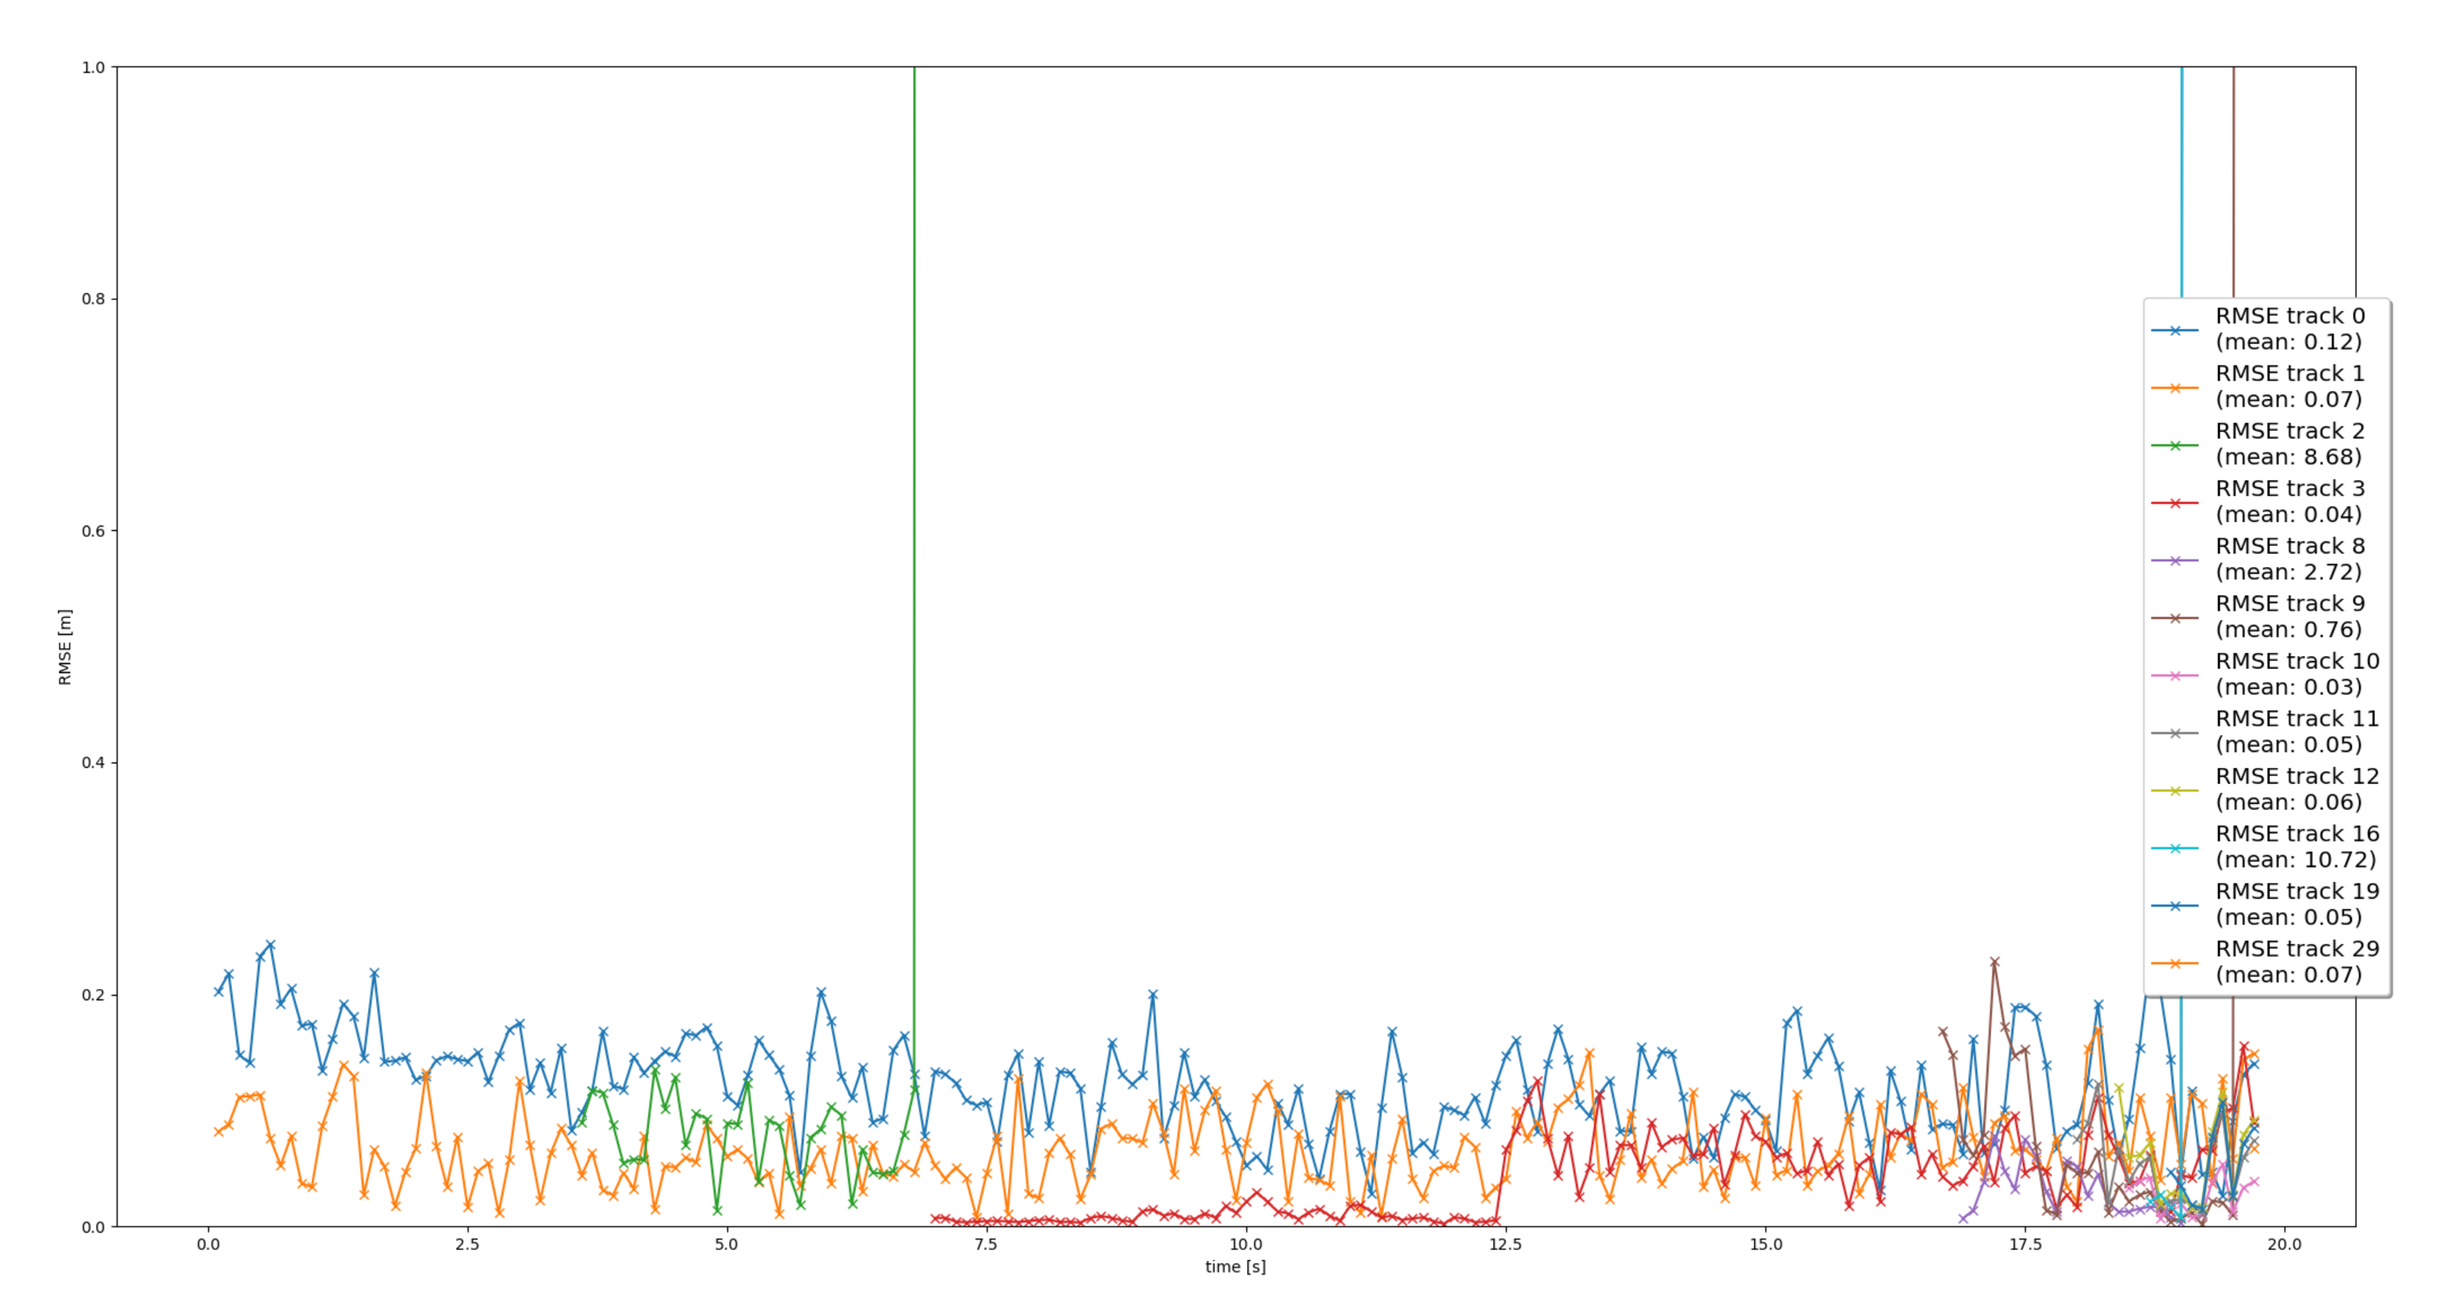
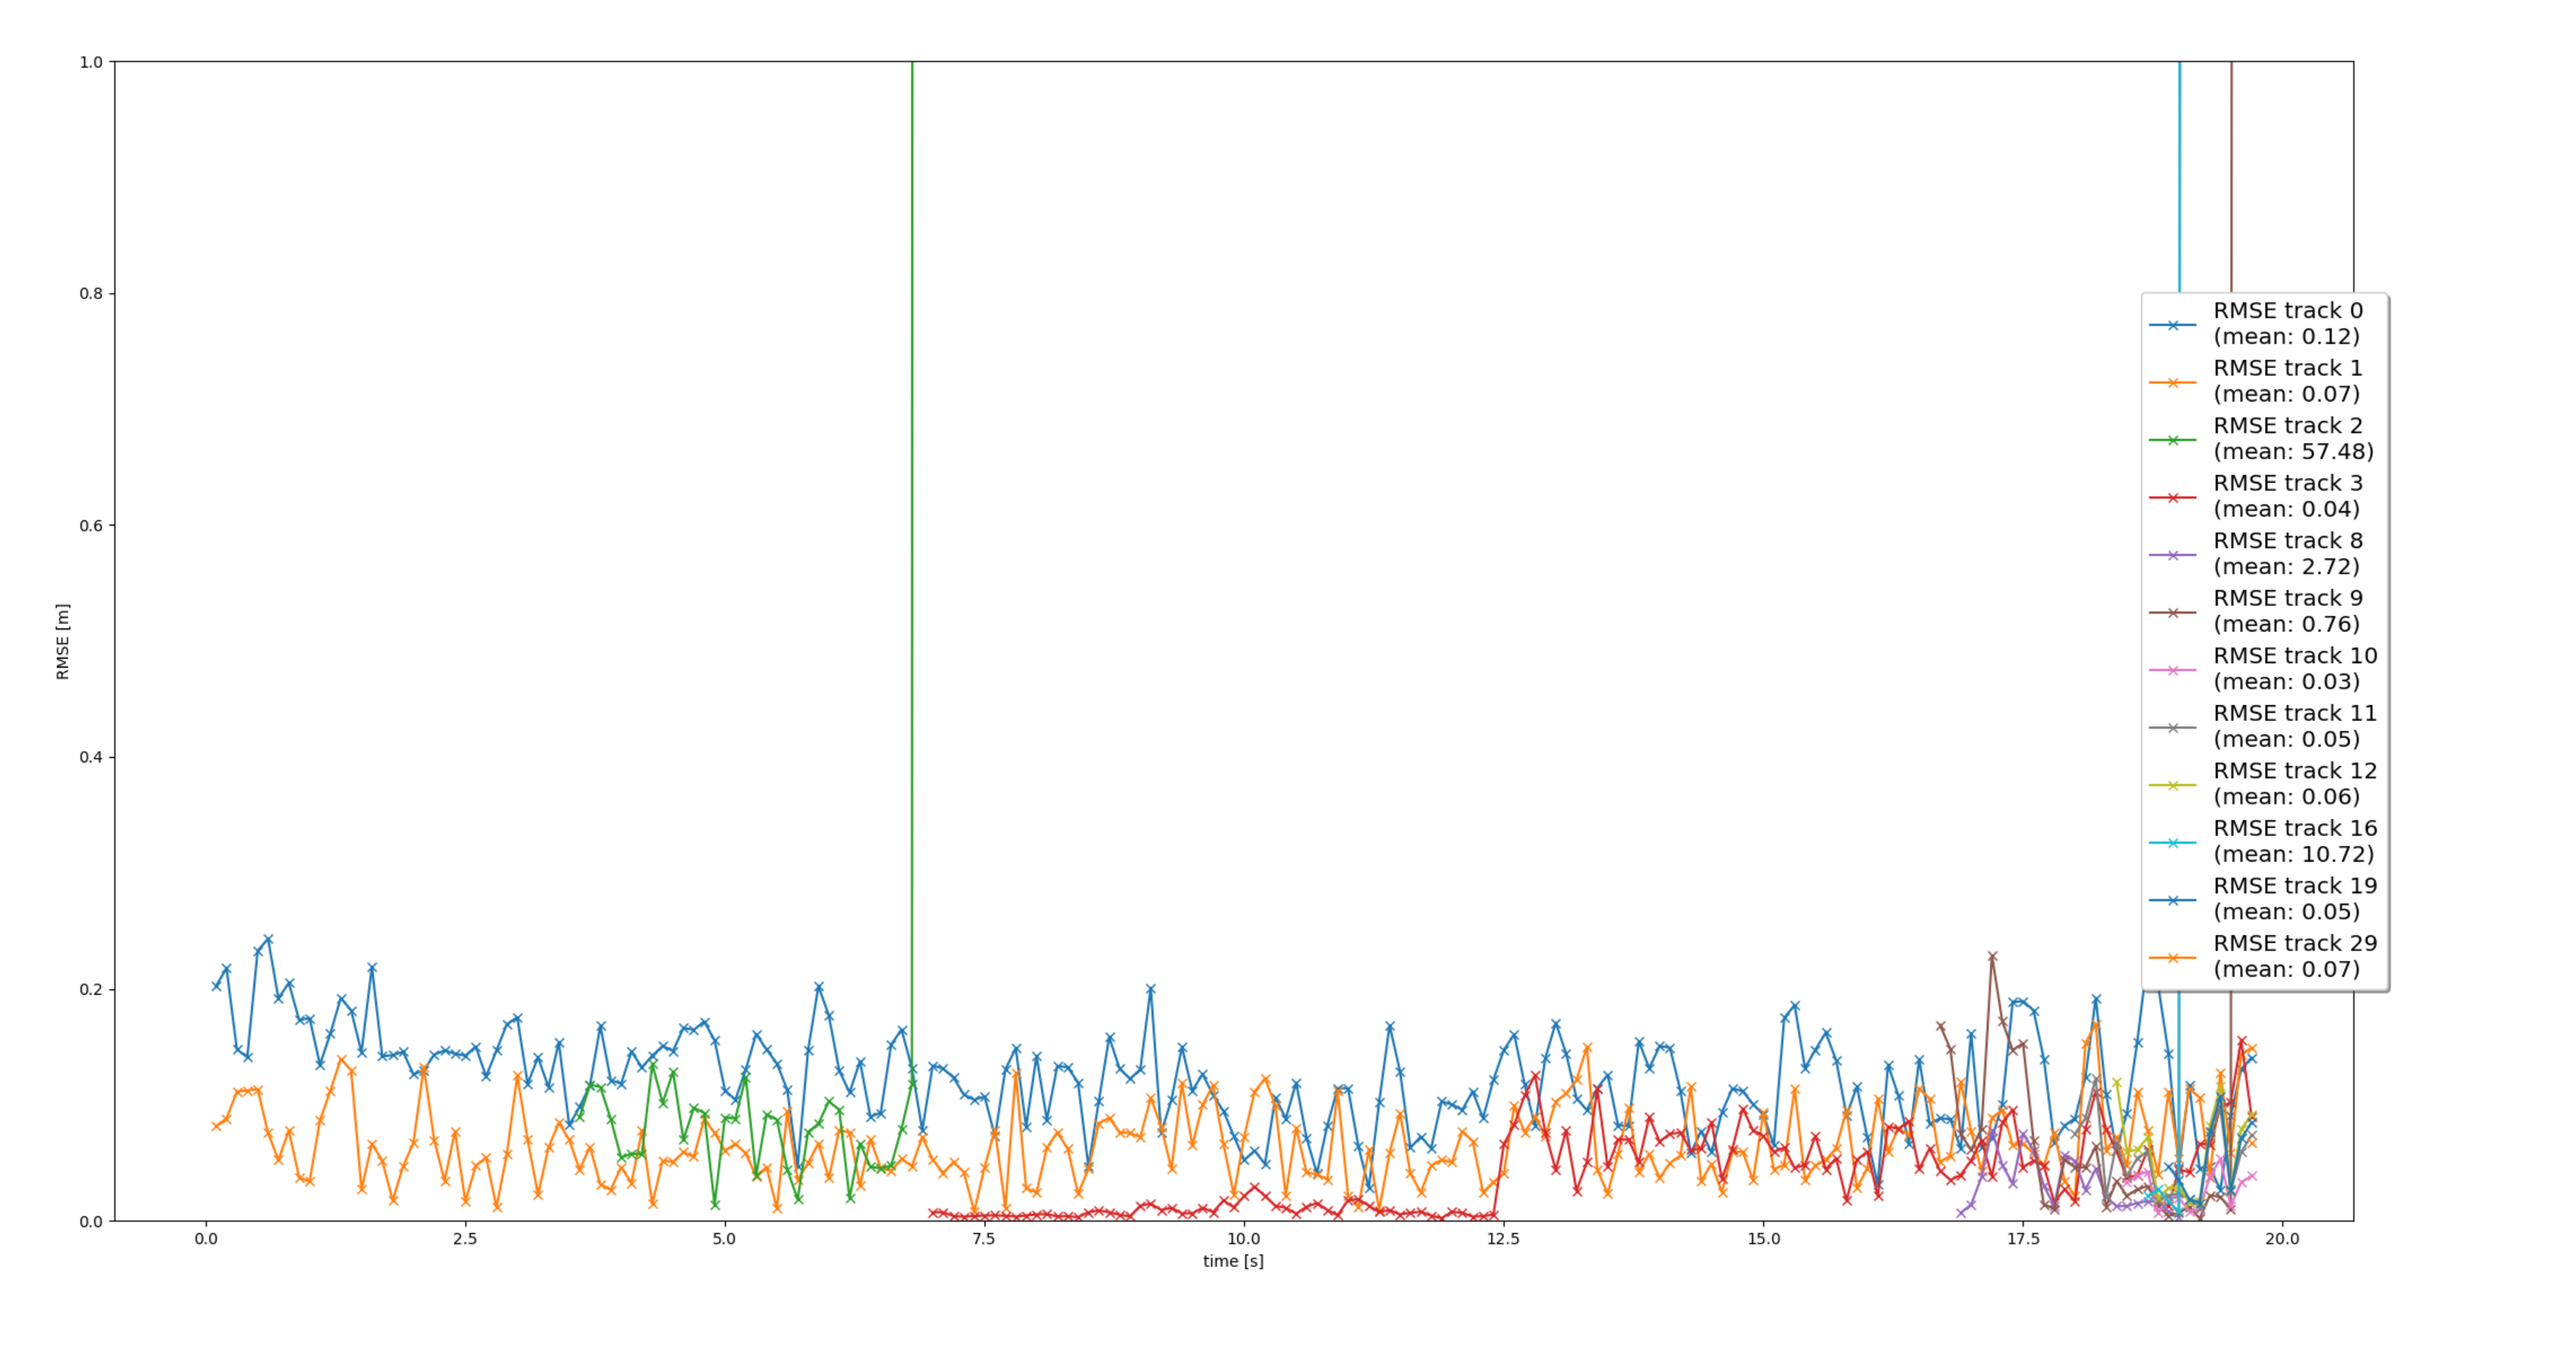
Step 4 revisions

diff --git a/student/trackmanagement.py b/student/trackmanagement.py
@@ -129,14 +129,25 @@ class Trackmanagement:
             if meas_list: # if not empty
                 if meas_list[0].sensor.in_fov(track.x):
                     # your code goes here
-                    track.score -= 1. / params.window 
+                    track.score -= 1.0 / params.window 
 
         # delete old tracks  
+        
         for track in self.track_list:
-            if (track.state in ["confirmed"] and track.score < params.delete_threshold) \
-                    or (track.P[0, 0] > params.max_P or track.P[1, 1] > params.max_P) \
+            if (track.state == 'confirmed' and track.score <= params.delete_threshold) \
+                    or track.state != 'confirmed' and (track.P[0, 0] > params.max_P \
+                    or track.state != 'confirmed' and track.P[1, 1] > params.max_P) \
                     or (track.score < 0.05):
                 self.delete_track(track) 
+
+
+        # for index in unassigned_tracks:
+        #     track = self.track_list[index]
+        #     if (track.state == 'confirmed' and track.score <= params.delete_threshold) \
+        #             or track.state != 'confirmed' and (track.P[0, 0] > params.max_P \
+        #             or track.state != 'confirmed' and track.P[1, 1] > params.max_P) \
+        #             or (track.score < 0.05):
+        #         self.delete_track(track) 
 
         ############
         # END student code
@@ -167,8 +178,8 @@ class Trackmanagement:
         # - set track state to 'tentative' or 'confirmed'
         ############
 
-        track.score += 1. /params.window
-
+        track.score += 1.0 /params.window
+        
         if track.score >= params.confirmed_threshold:
             track.state = 'confirmed'
         else:

diff --git a/loop_over_dataset.py b/loop_over_dataset.py
@@ -81,7 +81,7 @@ np.random.seed(10) # make random values predictable
 ## Selective execution and visualization
 exec_detection = [] # options are 'bev_from_pcl', 'detect_objects', 'validate_object_labels', 'measure_detection_performance'; options not in the list will be loaded from file
 exec_tracking = ['perform_tracking'] # options are 'perform_tracking'
-exec_visualization = ['show_tracks'] # options are 'show_range_image', 'show_bev', 'show_pcl', 'show_labels_in_image', 'show_objects_and_labels_in_bev', 'show_objects_in_bev_labels_in_camera', 'show_tracks', 'show_detection_performance', 'make_tracking_movie'
+exec_visualization = ['show_tracks', 'make_tracking_movie'] # options are 'show_range_image', 'show_bev', 'show_pcl', 'show_labels_in_image', 'show_objects_and_labels_in_bev', 'show_objects_in_bev_labels_in_camera', 'show_tracks', 'show_detection_performance', 'make_tracking_movie'
 exec_list = make_exec_list(exec_detection, exec_tracking, exec_visualization)
 vis_pause_time = 0 # set pause time between frames in ms (0 = stop between frames until key is pressed)
 

diff --git a/student/association.py b/student/association.py
@@ -39,9 +39,9 @@ class Association:
         ############
         
         # # the following only works for at most one track and one measurement
-        self.association_matrix = np.matrix([]) # reset matrix
-        self.unassigned_tracks = [] # reset lists
-        self.unassigned_meas = []
+        # self.association_matrix = np.matrix([]) # reset matrix
+        # self.unassigned_tracks = [] # reset lists
+        # self.unassigned_meas = []
 
         N = len(track_list) # N tracks
         M = len(meas_list) # M measurements
@@ -59,7 +59,8 @@ class Association:
                 dist = self.MHD(track, meas, KF)
                 if self.gating(dist, meas.sensor):
                     self.association_matrix[i,j] = dist
-        
+
+       
         # if len(meas_list) > 0:
         #     self.unassigned_meas = [0]
         # if len(track_list) > 0:

diff --git a/student/filter.py b/student/filter.py
@@ -20,7 +20,6 @@ PACKAGE_PARENT = '..'
 SCRIPT_DIR = os.path.dirname(os.path.realpath(os.path.join(os.getcwd(), os.path.expanduser(__file__))))
 sys.path.append(os.path.normpath(os.path.join(SCRIPT_DIR, PACKAGE_PARENT)))
 import misc.params as params 
-import student.measurements as measurements
 
 class Filter:
     '''Kalman filter class'''
@@ -52,6 +51,8 @@ class Filter:
         q1 = ((dt**3)/3) * q 
         q2 = ((dt**2)/2) * q 
         q3 = dt * q 
+
+   
         return np.matrix([[q1, 0, 0, q2, 0, 0],
                           [0, q1, 0, 0, q2, 0],
                           [0, 0, q1, 0, 0, q2],
